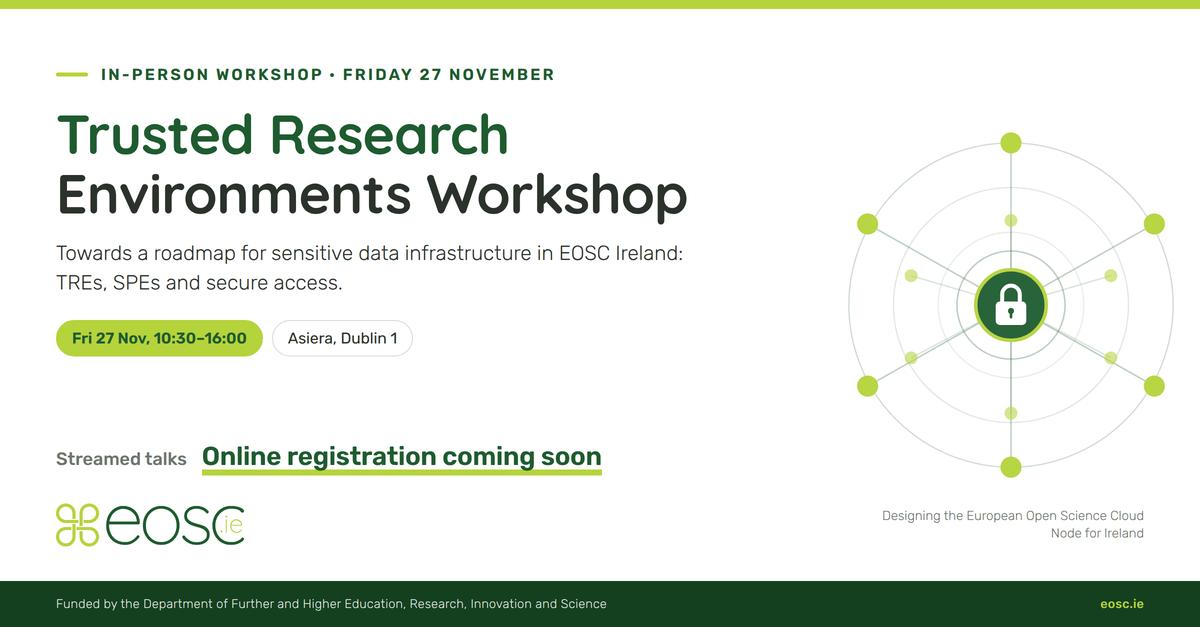
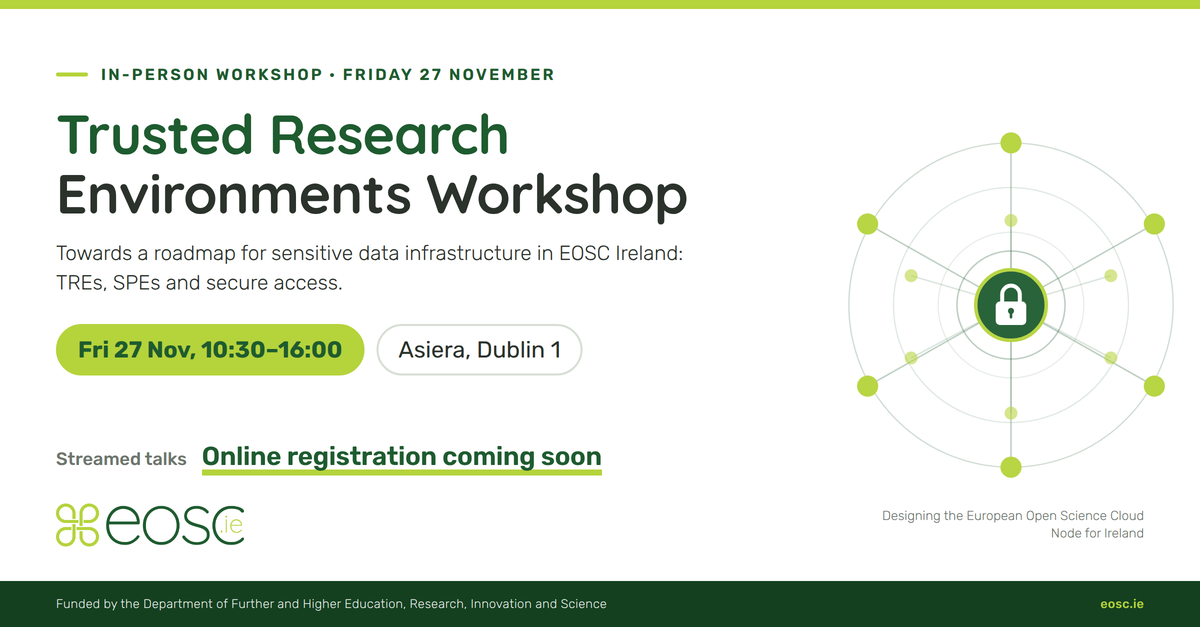
Compact the TRE key facts and enlarge the card image chips
Key facts were five separate large cards stacked over three rows and
took up too much vertical space. They are now one panel, 3 columns by
2 rows, with hairline dividers (1px grid gap over a grey background),
smaller icons and single-line values. Venue spans two columns; the
full address with Eircode stays in the Venue section below. Collapses
to one column under 720px.

Card image: date/time and venue chips enlarged (23px text, heavier
border) so they read at events-list thumbnail size.

Changed region(s): [[0.0308, 0.4848, 0.4933, 0.6061]]

diff --git a/events/eosc-ireland-tre-workshop/index.html b/events/eosc-ireland-tre-workshop/index.html
@@ -14,16 +14,20 @@ description: An in-person EOSC Ireland workshop on Trusted Research Environments
   /* .lead is light, so <strong> alone only reaches regular weight */
   .page-hero .lead strong { font-weight: 700; }
 
-  /* Key facts */
-  .tre-facts { display: grid; grid-template-columns: repeat(2, 1fr); gap: 1rem; margin: 1.25rem 0 2rem; }
-  .tre-fact { display: flex; align-items: flex-start; gap: 1rem; background: #f7fafc; border: 1px solid #e1e8ed; border-left: 4px solid #215c2e; border-radius: 12px; padding: 1.25rem 1.4rem; }
-  .tre-fact--wide { grid-column: 1 / -1; }
-  .tre-fact__icon { flex: none; width: 46px; height: 46px; border-radius: 50%; background: rgba(181, 211, 59, 0.28); color: #215c2e; display: flex; align-items: center; justify-content: center; }
-  .tre-fact__icon svg { width: 24px; height: 24px; }
-  .tre-fact__label { font-size: 0.8rem; font-weight: 700; text-transform: uppercase; letter-spacing: 0.6px; color: #5a6b7a; margin: 0 0 0.3rem; }
-  .tre-fact__value { margin: 0; font-size: 1.15rem; font-weight: 600; color: #023452; line-height: 1.4; }
-  .tre-fact__note { display: block; margin-top: 0.2rem; font-size: 0.95rem; font-weight: 400; color: #5a6b7a; }
-  @media (max-width: 640px) { .tre-facts { grid-template-columns: 1fr; } }
+  /* Key facts: one compact panel; the 1px grid gap over a grey
+     background draws the dividers. 3 columns x 2 rows, Venue spans 2. */
+  .tre-facts { display: grid; grid-template-columns: repeat(3, 1fr); gap: 1px; background: #e1e8ed; border: 1px solid #e1e8ed; border-radius: 12px; overflow: hidden; margin: 1rem 0 1.75rem; }
+  .tre-fact { display: flex; align-items: center; gap: 0.8rem; background: #f7fafc; padding: 0.85rem 1.1rem; }
+  .tre-fact--wide { grid-column: span 2; }
+  .tre-fact__icon { flex: none; width: 36px; height: 36px; border-radius: 50%; background: rgba(181, 211, 59, 0.28); color: #215c2e; display: flex; align-items: center; justify-content: center; }
+  .tre-fact__icon svg { width: 19px; height: 19px; }
+  .tre-fact__label { font-size: 0.72rem; font-weight: 700; text-transform: uppercase; letter-spacing: 0.6px; color: #5a6b7a; margin: 0 0 0.1rem; }
+  .tre-fact__value { margin: 0; font-size: 1rem; font-weight: 600; color: #023452; line-height: 1.35; }
+  .tre-fact__note { font-weight: 400; color: #5a6b7a; }
+  @media (max-width: 720px) {
+    .tre-facts { grid-template-columns: 1fr; }
+    .tre-fact--wide { grid-column: auto; }
+  }
 
   /* Agenda placeholder */
   .tre-soon { display: flex; align-items: center; gap: 1rem; flex-wrap: wrap; background: #fff6ee; border: 1px solid #fcd9bd; border-left: 4px solid #f47920; border-radius: 12px; padding: 1.1rem 1.4rem; margin: 1rem 0; }
@@ -81,21 +85,21 @@ description: An in-person EOSC Ireland workshop on Trusted Research Environments
               <span class="tre-fact__icon" aria-hidden="true"><svg viewBox="0 0 24 24" fill="none" stroke="currentColor" stroke-width="2" stroke-linecap="round" stroke-linejoin="round"><circle cx="12" cy="12" r="9"/><path d="M12 7v5l3.5 2"/></svg></span>
               <div>
                 <dt class="tre-fact__label">Time</dt>
-                <dd class="tre-fact__value">10:30&ndash;16:00<span class="tre-fact__note">Irish time</span></dd>
-              </div>
-            </div>
-            <div class="tre-fact tre-fact--wide">
-              <span class="tre-fact__icon" aria-hidden="true"><svg viewBox="0 0 24 24" fill="none" stroke="currentColor" stroke-width="2" stroke-linecap="round" stroke-linejoin="round"><path d="M12 21.5s-7-6.2-7-11.5a7 7 0 0 1 14 0c0 5.3-7 11.5-7 11.5z"/><circle cx="12" cy="10" r="2.5"/></svg></span>
-              <div>
-                <dt class="tre-fact__label">Venue</dt>
-                <dd class="tre-fact__value">Asiera offices, Dublin 1<span class="tre-fact__note">3rd Floor, North Dock 2, 93/94 North Wall Quay, D01 V8Y6</span></dd>
+                <dd class="tre-fact__value">10:30&ndash;16:00 <span class="tre-fact__note">(Irish time)</span></dd>
               </div>
             </div>
             <div class="tre-fact">
               <span class="tre-fact__icon" aria-hidden="true"><svg viewBox="0 0 24 24" fill="none" stroke="currentColor" stroke-width="2" stroke-linecap="round" stroke-linejoin="round"><circle cx="9" cy="8" r="3.5"/><path d="M2.5 20.5c0-3.6 2.9-6.5 6.5-6.5s6.5 2.9 6.5 6.5"/><path d="M16 4.8a3.5 3.5 0 0 1 0 6.4M18.5 14.5c1.8.9 3 2.8 3 6"/></svg></span>
               <div>
                 <dt class="tre-fact__label">Attendance</dt>
-                <dd class="tre-fact__value">In person, by invitation<span class="tre-fact__note">Talks streamed online</span></dd>
+                <dd class="tre-fact__value">In person, by invitation</dd>
+              </div>
+            </div>
+            <div class="tre-fact tre-fact--wide">
+              <span class="tre-fact__icon" aria-hidden="true"><svg viewBox="0 0 24 24" fill="none" stroke="currentColor" stroke-width="2" stroke-linecap="round" stroke-linejoin="round"><path d="M12 21.5s-7-6.2-7-11.5a7 7 0 0 1 14 0c0 5.3-7 11.5-7 11.5z"/><circle cx="12" cy="10" r="2.5"/></svg></span>
+              <div>
+                <dt class="tre-fact__label">Venue</dt>
+                <dd class="tre-fact__value">Asiera, North Dock 2, 93/94 North Wall Quay, Dublin 1</dd>
               </div>
             </div>
             <div class="tre-fact">
